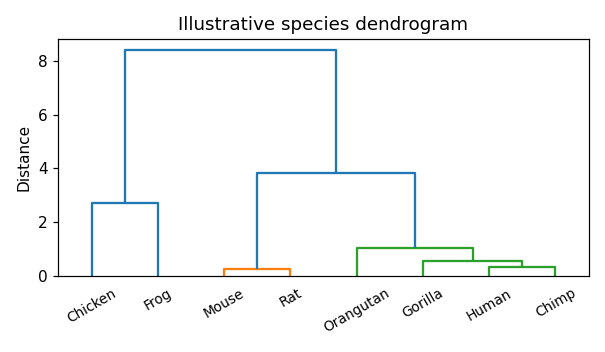
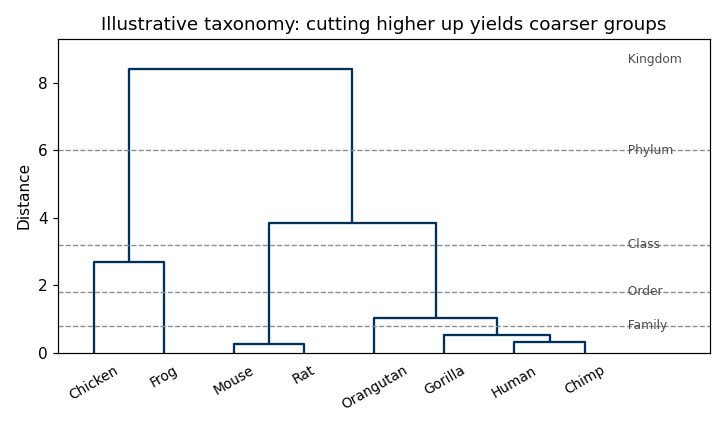
Topic5.3 animations: 2-sigma GMM ellipses + fixed axes, distinct DBSCAN cluster colors, taxonomy rank cut-lines, two-panel agglomerative
- GMM EM: draw 1- and 2-sigma ellipses, fixed axis limits (data no longer appears to move), stop at iteration 10.
- DBSCAN: vivid blue/gold clusters (not muted teal that reads as gray); noise stays light gray.
- Fix save_gif palette: build from all frames stacked, so colors first appearing in later
  frames (e.g. a cluster revealed mid-reveal) are no longer quantized to gray.
- species dendrogram: add Family/Order/Class/Phylum/Kingdom cut-lines to show higher cut = coarser rank.
- agglomerative: two-panel — scatter + dendrogram built link-by-link with a rising merge-height bar.

Changed region(s): [[0.0, 0.0312, 0.9818, 0.9688], [0.8628, 0.5312, 0.9223, 0.5938]]

diff --git a/settings/helper_scripts/gen_clustering_animations.py b/settings/helper_scripts/gen_clustering_animations.py
@@ -30,8 +30,15 @@ def fig_to_img(fig):
 
 
 def save_gif(frames, path, duration=550, end_hold=2000):
-    # quantize all frames to a single 64-color palette for a small, flicker-free GIF
-    pal = frames[0].convert("P", palette=Image.ADAPTIVE, colors=64)
+    # Build ONE palette from ALL frames stacked together, so colors that only appear
+    # in later frames (e.g. a cluster revealed mid-animation) are not lost. Quantizing
+    # against a palette derived from frame 0 alone would map such colors to the nearest
+    # available entry (often gray) — a subtle but real bug.
+    w, h = frames[0].size
+    montage = Image.new("RGB", (w, h * len(frames)))
+    for i, f in enumerate(frames):
+        montage.paste(f, (0, i * h))
+    pal = montage.convert("P", palette=Image.ADAPTIVE, colors=128)
     q = [f.quantize(palette=pal, dither=Image.NONE) for f in frames]
     # slow base frame rate so students can follow; hold the final frame longer
     durations = [duration] * (len(q) - 1) + [end_hold]
@@ -41,14 +48,16 @@ def save_gif(frames, path, duration=550, end_hold=2000):
     print(f"  {os.path.basename(path)}: {os.path.getsize(path)/1024:.0f} KB, {len(frames)} frames")
 
 
-def cov_ellipse(ax, mean, cov, color):
+def cov_ellipse(ax, mean, cov, color, nsigs=(1, 2)):
+    """Draw 1- and 2-standard-deviation ellipses for a Gaussian component."""
     vals, vecs = np.linalg.eigh(cov)
     order = vals.argsort()[::-1]
     vals, vecs = vals[order], vecs[:, order]
     angle = np.degrees(np.arctan2(*vecs[:, 0][::-1]))
-    w, h = 2 * 2 * np.sqrt(np.maximum(vals, 1e-9))   # 2-sigma
-    e = Ellipse(mean, w, h, angle=angle, fc=color, ec=color, alpha=0.25, lw=2)
-    ax.add_patch(e)
+    for ns in nsigs:
+        w, h = 2 * ns * np.sqrt(np.maximum(vals, 1e-9))   # ns-sigma
+        ax.add_patch(Ellipse(mean, w, h, angle=angle,
+                             fc=color, ec=color, alpha=0.16, lw=1.5))
 
 
 # ── 1. k-means convergence ──────────────────────────────────────────────────
@@ -87,15 +96,19 @@ def gmm_gif():
     gm = GaussianMixture(3, covariance_type='full', warm_start=True, max_iter=1,
                          means_init=means_init, precisions_init=precisions_init,
                          random_state=0, tol=1e-9)
+    # fixed axis limits so the data stays put and only the ellipses move
+    xlim = (X[:, 0].min() - 1, X[:, 0].max() + 1)
+    ylim = (X[:, 1].min() - 1, X[:, 1].max() + 1)
     frames = []
-    for it in range(14):
+    for it in range(10):
         gm.fit(X)
         lab = gm.predict(X)
         fig, ax = plt.subplots(figsize=(3.6, 3.6))
         ax.scatter(X[:, 0], X[:, 1], c=CLRS[lab], s=14, alpha=0.6)
         for k in range(3):
-            cov_ellipse(ax, gm.means_[k], gm.covariances_[k], CLRS[k])
+            cov_ellipse(ax, gm.means_[k], gm.covariances_[k], CLRS[k])   # 1- and 2-sigma
             ax.plot(*gm.means_[k], 'k*', ms=12, mec='w')
+        ax.set_xlim(*xlim); ax.set_ylim(*ylim)
         ax.set_title(f'GMM (EM) — iteration {it + 1}'); ax.set_xticks([]); ax.set_yticks([])
         frames.append(fig_to_img(fig))
     save_gif(frames, f"{OUT}/gmm_em_animation.gif")
@@ -142,7 +155,10 @@ def dbscan_gif():
         shown = order[:s]
         fig, ax = plt.subplots(figsize=(3.6, 3.6))
         ax.scatter(X[:, 0], X[:, 1], c='0.9', s=10)
-        c = np.array(['#cccccc' if lab[i] == -1 else CLRS[lab[i] % len(CLRS)] for i in shown])
+        # bright, clearly non-gray colors for the clusters; noise stays gray
+        cluster_palette = ['#EAAA00', '#1879DB', '#377117']
+        c = np.array(['#bdbdbd' if lab[i] == -1 else cluster_palette[lab[i] % len(cluster_palette)]
+                      for i in shown])
         ax.scatter(X[shown, 0], X[shown, 1], c=c, s=16)
         ax.set_title('DBSCAN — clusters grow, noise stays gray')
         ax.set_xticks([]); ax.set_yticks([])
@@ -156,34 +172,57 @@ def agglomerative_gif():
     X, _ = make_blobs(n_samples=14, centers=3, cluster_std=0.7, random_state=2)
     Z = linkage(X, method='single')
     n = len(X)
+    # dendrogram link coordinates, ordered by merge height (== Z order)
+    dn = dendrogram(Z, no_plot=True)
+    ic, dc = dn['icoord'], dn['dcoord']
+    order = sorted(range(len(ic)), key=lambda i: max(dc[i]))
+    heights = [max(dc[order[j]]) for j in range(len(order))]
+    xmax = max(max(x) for x in ic) + 5
+    hmax = max(heights) * 1.08
+    xlim = (X[:, 0].min() - 1, X[:, 0].max() + 1)
+    ylim = (X[:, 1].min() - 1, X[:, 1].max() + 1)
+
     members = {i: [i] for i in range(n)}
-    clusters = {i: i for i in range(n)}   # point -> current cluster id
+    clusters = {i: i for i in range(n)}
     frames = []
-    def draw(active_pair=None):
-        fig, ax = plt.subplots(figsize=(3.6, 3.6))
+
+    def frame(step, active=None):
+        fig, (axL, axR) = plt.subplots(1, 2, figsize=(7.4, 3.7))
+        # left: scatter colored by current clusters; highlight the newest merge
         ids = sorted(set(clusters.values()))
         cmap = {cid: CLRS[j % len(CLRS)] for j, cid in enumerate(ids)}
-        ax.scatter(X[:, 0], X[:, 1], c=[cmap[clusters[i]] for i in range(n)],
-                   s=60, edgecolors='k', zorder=3)
-        if active_pair:
-            for a in members[active_pair[0]]:
-                for b in members[active_pair[1]]:
-                    ax.plot(*zip(X[a], X[b]), color='0.5', lw=0.6, zorder=1)
-        ax.set_title(f'agglomerative — {len(ids)} clusters')
-        ax.set_xticks([]); ax.set_yticks([])
+        axL.scatter(X[:, 0], X[:, 1], c=[cmap[clusters[i]] for i in range(n)],
+                    s=55, edgecolors='k', zorder=3)
+        if active is not None:
+            ca = X[members[active[0]]].mean(0)
+            cb = X[members[active[1]]].mean(0)
+            axL.plot([ca[0], cb[0]], [ca[1], cb[1]], color=CLRS[1], lw=1.8, zorder=1)
+        axL.set_xlim(*xlim); axL.set_ylim(*ylim)
+        axL.set_title(f'{len(ids)} cluster(s)'); axL.set_xticks([]); axL.set_yticks([])
+        # right: dendrogram links revealed so far; newest highlighted; bar at current height
+        for j in range(step):
+            li = order[j]
+            axR.plot(ic[li], dc[li], color='0.35', lw=1.2)
+        if step > 0:
+            li = order[step - 1]
+            axR.plot(ic[li], dc[li], color=CLRS[1], lw=2.6)
+            axR.axhline(heights[step - 1], color=CLRS[1], ls='--', lw=1.3)
+        axR.set_xlim(0, xmax); axR.set_ylim(0, hmax)
+        axR.set_xticks([]); axR.set_ylabel('Merge distance'); axR.set_title('Dendrogram')
+        plt.tight_layout()
         frames.append(fig_to_img(fig))
-    draw()
+
+    frame(0)
     nid = n
-    for a, b, _, _ in Z:
-        a, b = int(a), int(b)
-        draw(active_pair=(a, b))
+    for i in range(len(Z)):
+        a, b = int(Z[i, 0]), int(Z[i, 1])
         members[nid] = members[a] + members[b]
         for p in members[nid]:
             clusters[p] = nid
+        frame(i + 1, active=(a, b))
         nid += 1
-        draw()
     frames += [frames[-1]] * 3
-    save_gif(frames, f"{OUT}/agglomerative_animation.gif", duration=320)
+    save_gif(frames, f"{OUT}/agglomerative_animation.gif", duration=420)
 
 
 # ── 6. toy species dendrogram (static) ──────────────────────────────────────
@@ -194,11 +233,22 @@ def bio_dendrogram():
         [0.0, 0.0, 0.0], [0.3, 0.1, 0.0], [0.6, 0.3, 0.1], [1.2, 0.6, 0.2],
         [3.0, 3.0, 0.5], [3.1, 3.2, 0.6], [6.0, 5.0, 4.0], [7.0, 6.5, 6.0]])
     Z = linkage(feats, method='average')
-    fig, ax = plt.subplots(figsize=(5.5, 3.2))
-    dendrogram(Z, labels=species, ax=ax, color_threshold=2.5,
+    fig, ax = plt.subplots(figsize=(6.6, 3.9))
+    dendrogram(Z, labels=species, ax=ax, color_threshold=0,
+               above_threshold_color='#003057',
                leaf_rotation=30, leaf_font_size=9)
     ax.set_ylabel('Distance')
-    ax.set_title('Illustrative species dendrogram')
+    ax.set_title('Illustrative taxonomy: cutting higher up yields coarser groups')
+
+    # taxonomic-rank cut lines — a higher horizontal cut merges finer groups into coarser ranks
+    x0, x1 = ax.get_xlim()
+    ranks = [(0.8, 'Family'), (1.8, 'Order'), (3.2, 'Class'), (6.0, 'Phylum')]
+    for h, name in ranks:
+        ax.axhline(h, color='0.55', ls='--', lw=0.9)
+        ax.text(x1, h, f'  {name}', va='center', ha='left', fontsize=8, color='0.3')
+    ax.text(x1, 8.7, '  Kingdom', va='center', ha='left', fontsize=8, color='0.3')
+    ax.set_xlim(x0, x1 + (x1 - x0) * 0.16)
+    ax.set_ylim(0, 9.3)
     fig.tight_layout()
     fig.savefig(f"{OUT}/species_dendrogram.png", dpi=110)
     plt.close(fig)
